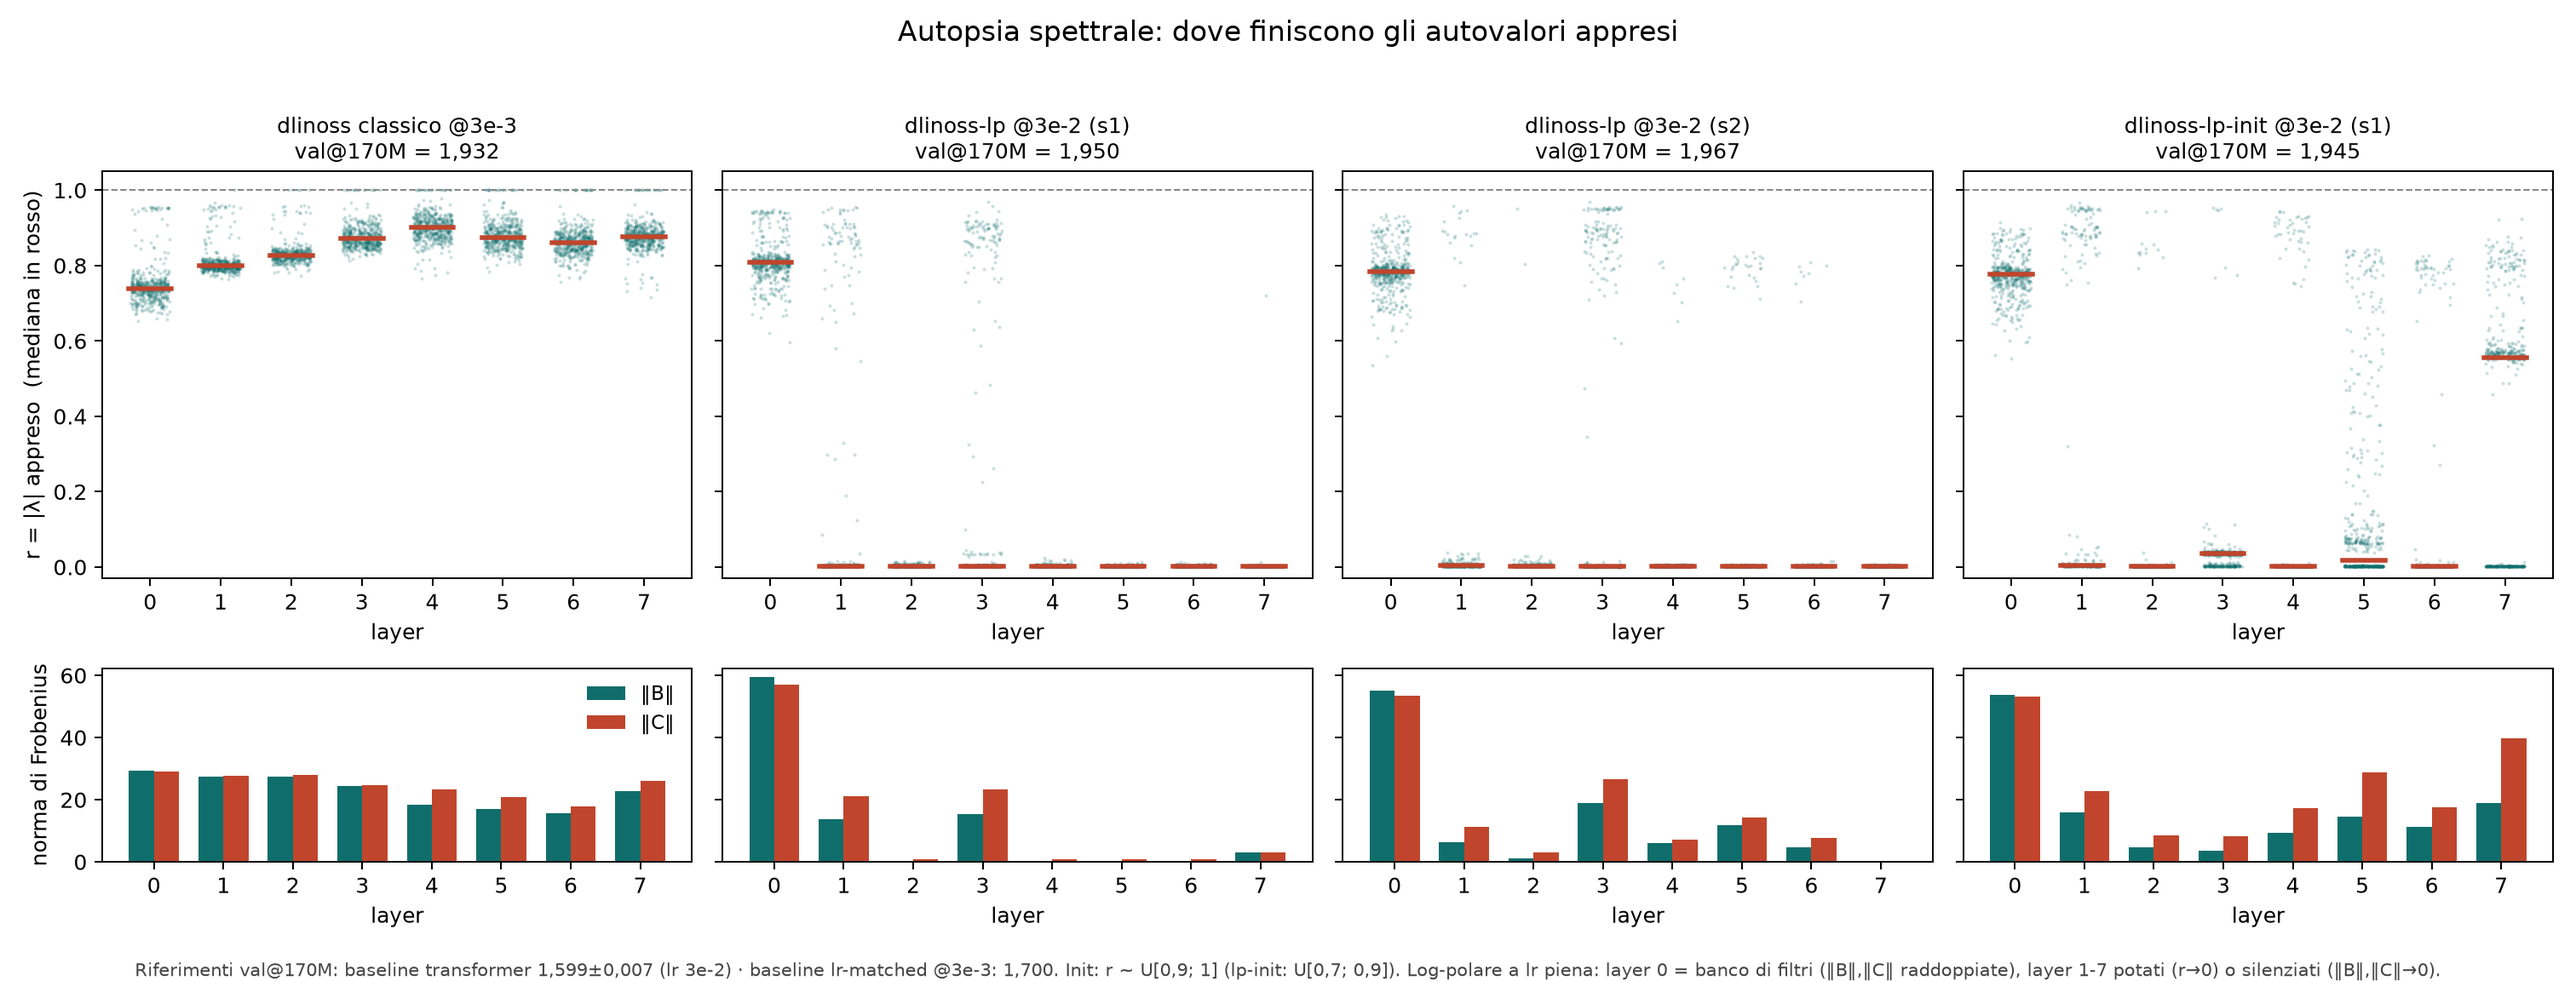
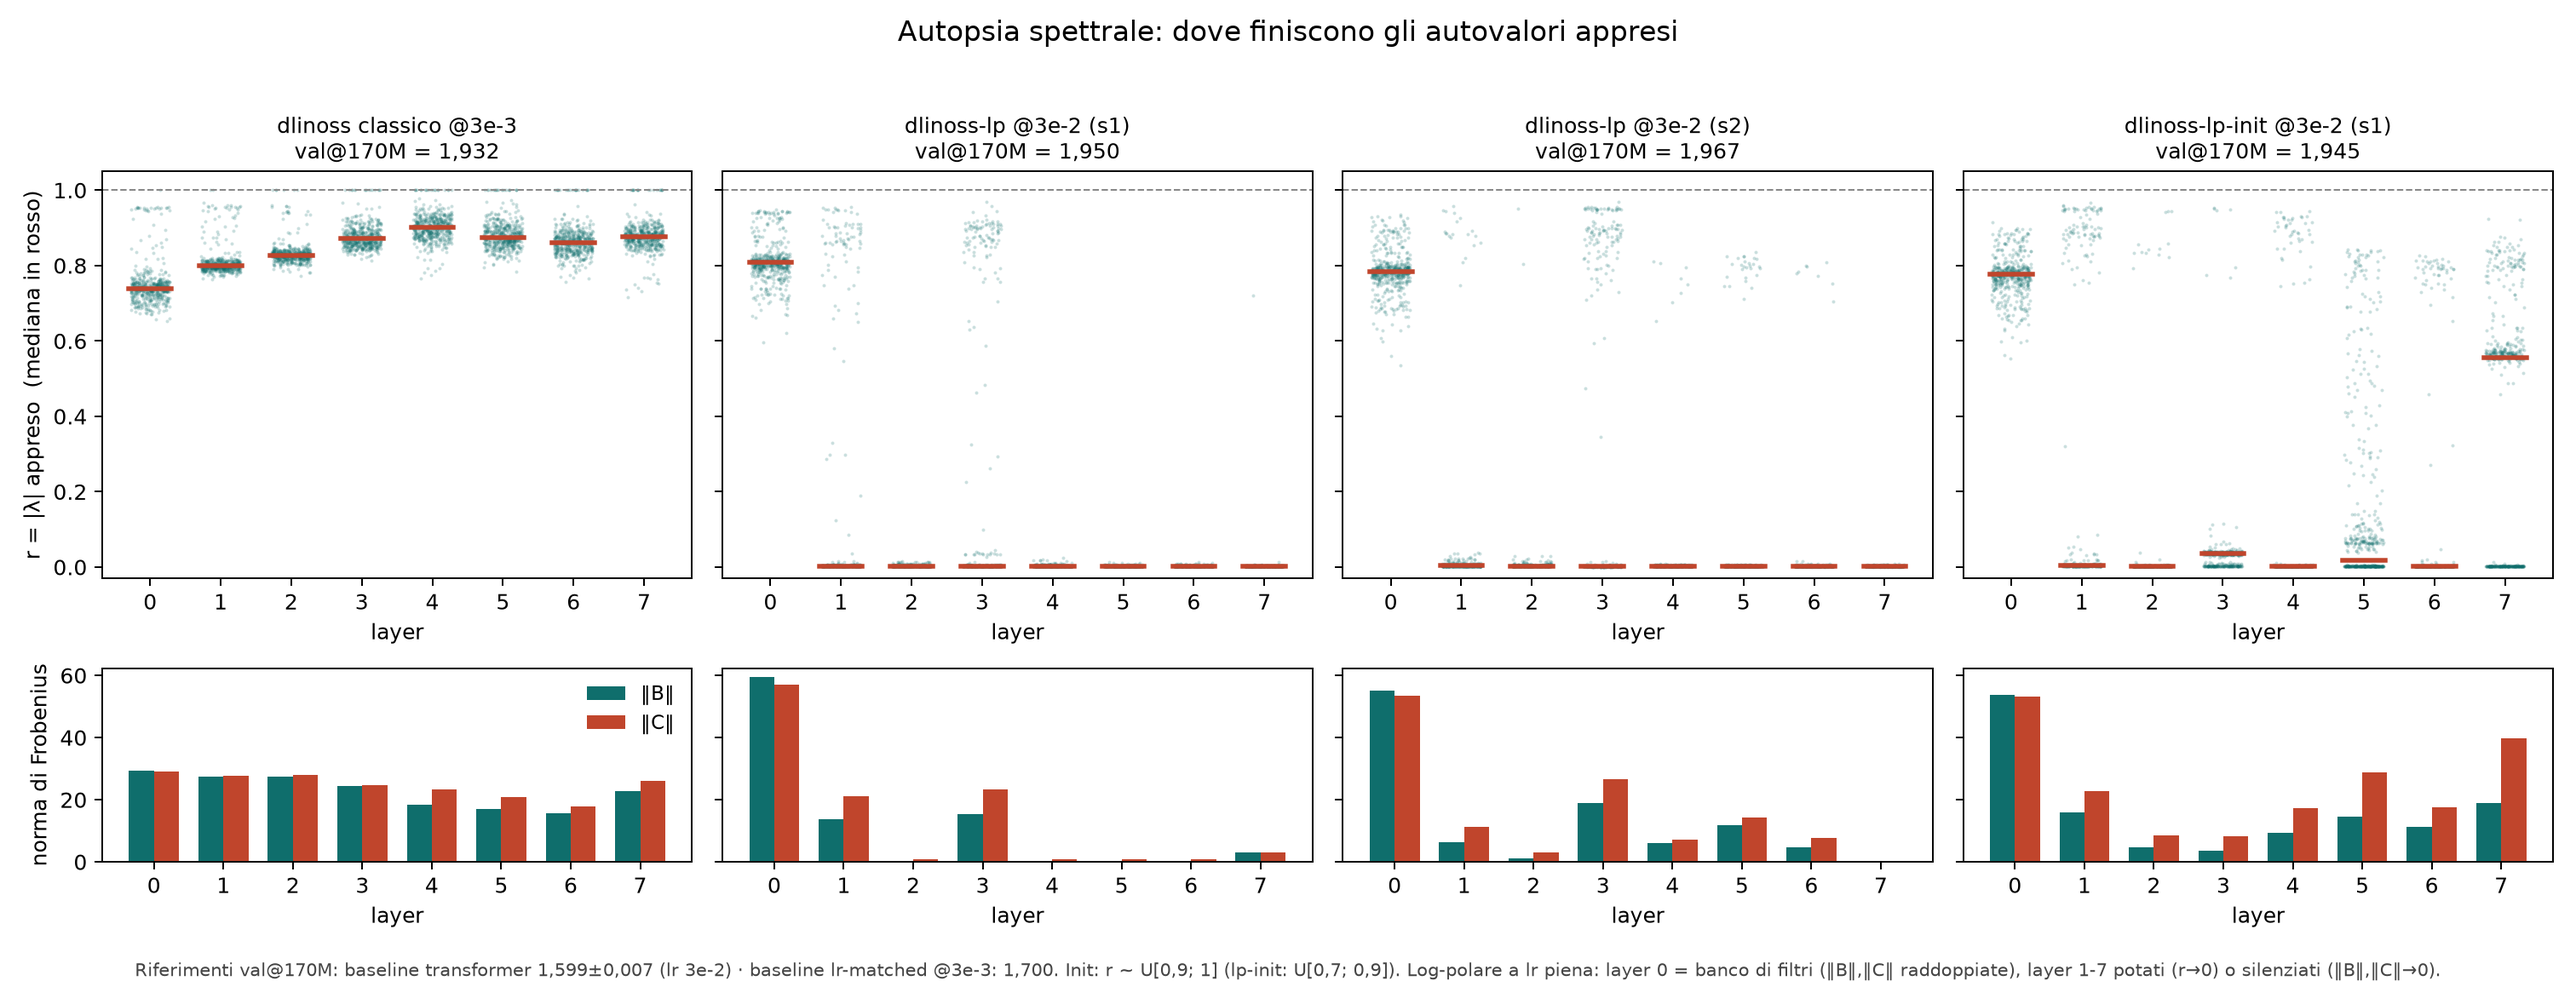
feat: figure bilingui IT/EN — script parametrizzati per lingua, regola nella skill docs-and-artifacts

diff --git a/scripts/fig_autopsia.py b/scripts/fig_autopsia.py
@@ -1,10 +1,10 @@
-"""Figura per il log/dev-log: spettri appresi per layer, classico vs log-polare.
+"""Figura autopsia spettrale (griglia 1b): spettri appresi per layer.
 
-Pannelli: (a) r per oscillatore/layer nei tre modelli; (b) norme di B/C per layer
-(il canale della potatura). Dati dai checkpoint HF (cache locale).
+Uso: `uv run --with matplotlib python scripts/fig_autopsia.py [it|en|all]`
+Output: docs/figures/2026-08-autopsia-spettrale-1b.png (+ -en per l'inglese).
+Dati: checkpoint HF (cache locale dopo il primo download).
 """
 import sys
-import math
 import torch
 import torch.nn.functional as F
 import matplotlib
@@ -13,14 +13,40 @@ import matplotlib.pyplot as plt
 from huggingface_hub import hf_hub_download
 
 REPO = "MarioAlessandroNapoli/neuro-llm-ckpt"
-OUT = sys.argv[1] if len(sys.argv) > 1 else "docs/figures/2026-08-autopsia-spettrale-1b.png"
 
 MODELS = [
-    ("dlinoss-d256-L8-t170M-s1-lr3e-3", "dlinoss classico @3e-3", "classic", 1.9320),
-    ("dlinoss-lp-d256-L8-t170M-s1-lr3e-2", "dlinoss-lp @3e-2 (s1)", "lp", 1.9498),
-    ("dlinoss-lp-d256-L8-t170M-s2-lr3e-2", "dlinoss-lp @3e-2 (s2)", "lp", 1.9672),
-    ("dlinoss-lp-init-d256-L8-t170M-s1-lr3e-2", "dlinoss-lp-init @3e-2 (s1)", "lp", 1.9450),
+    ("dlinoss-d256-L8-t170M-s1-lr3e-3", {"it": "dlinoss classico @3e-3", "en": "vanilla dlinoss @3e-3"}, "classic", 1.9320),
+    ("dlinoss-lp-d256-L8-t170M-s1-lr3e-2", {"it": "dlinoss-lp @3e-2 (s1)", "en": "dlinoss-lp @3e-2 (s1)"}, "lp", 1.9498),
+    ("dlinoss-lp-d256-L8-t170M-s2-lr3e-2", {"it": "dlinoss-lp @3e-2 (s2)", "en": "dlinoss-lp @3e-2 (s2)"}, "lp", 1.9672),
+    ("dlinoss-lp-init-d256-L8-t170M-s1-lr3e-2", {"it": "dlinoss-lp-init @3e-2 (s1)", "en": "dlinoss-lp-init @3e-2 (s1)"}, "lp", 1.9450),
 ]
+
+TEXT = {
+    "it": {
+        "title": "Autopsia spettrale: dove finiscono gli autovalori appresi",
+        "ylab": "r = |λ| appreso  (mediana in rosso)",
+        "ylab2": "norma di Frobenius",
+        "xlab": "layer",
+        "val": "val@170M = {v}",
+        "foot": ("Riferimenti val@170M: baseline transformer 1,599±0,007 (lr 3e-2) · baseline lr-matched @3e-3: 1,700. "
+                 "Init: r ~ U[0,9; 1] (lp-init: U[0,7; 0,9]). Log-polare a lr piena: layer 0 = banco di filtri "
+                 "(‖B‖,‖C‖ raddoppiate), layer 1-7 potati (r→0) o silenziati (‖B‖,‖C‖→0)."),
+        "dec": ",",
+        "out": "docs/figures/2026-08-autopsia-spettrale-1b.png",
+    },
+    "en": {
+        "title": "Spectral autopsy: where the learned eigenvalues end up",
+        "ylab": "learned r = |λ|  (median in red)",
+        "ylab2": "Frobenius norm",
+        "xlab": "layer",
+        "val": "val@170M = {v}",
+        "foot": ("val@170M references: transformer baseline 1.599±0.007 (lr 3e-2) · lr-matched baseline @3e-3: 1.700. "
+                 "Init: r ~ U[0.9, 1] (lp-init: U[0.7, 0.9]). Log-polar at full lr: layer 0 = filter bank "
+                 "(‖B‖,‖C‖ doubled), layers 1-7 pruned (r→0) or silenced (‖B‖,‖C‖→0)."),
+        "dec": ".",
+        "out": "docs/figures/2026-08-autopsia-spettrale-1b-en.png",
+    },
+}
 
 
 def load_layers(run, kind):
@@ -41,46 +67,48 @@ def load_layers(run, kind):
     return out
 
 
-data = {label: (load_layers(run, kind), vl) for run, label, kind, vl in MODELS}
+def render(lang, data):
+    T = TEXT[lang]
+    n = len(data)
+    fig, axes = plt.subplots(2, n, figsize=(4.2 * n, 6.4), height_ratios=[2.1, 1],
+                             sharey="row")
+    fig.suptitle(T["title"], fontsize=13, y=0.98)
+    for j, (run, label, kind, vloss) in enumerate(MODELS):
+        layers = data[run]
+        ax = axes[0, j]
+        torch.manual_seed(0)
+        for li, (r, _, _) in enumerate(layers):
+            x = li + (torch.rand(len(r)) - 0.5) * 0.55
+            ax.scatter(x, r, s=2.5, alpha=0.22, color="#0F6E6C", linewidths=0)
+            ax.plot([li - 0.3, li + 0.3], [r.median()] * 2, color="#C0452C", lw=2.2,
+                    zorder=3)
+        ax.axhline(1.0, color="#888", lw=0.8, ls="--")
+        vtxt = f"{vloss:.3f}".replace(".", T["dec"])
+        ax.set_title(f"{label[lang]}\n{T['val'].format(v=vtxt)}", fontsize=10)
+        ax.set_xlabel(T["xlab"])
+        ax.set_xticks(range(len(layers)))
+        ax.set_ylim(-0.03, 1.05)
+        if j == 0:
+            ax.set_ylabel(T["ylab"])
+        ax2 = axes[1, j]
+        idx = range(len(layers))
+        ax2.bar([i - 0.18 for i in idx], [b for _, b, _ in layers], width=0.36,
+                label="‖B‖", color="#0F6E6C")
+        ax2.bar([i + 0.18 for i in idx], [c for _, _, c in layers], width=0.36,
+                label="‖C‖", color="#C0452C")
+        ax2.set_xlabel(T["xlab"])
+        ax2.set_xticks(list(idx))
+        if j == 0:
+            ax2.set_ylabel(T["ylab2"])
+            ax2.legend(frameon=False, fontsize=9)
+    fig.text(0.5, 0.005, T["foot"], ha="center", fontsize=8.5, color="#444")
+    fig.tight_layout(rect=(0, 0.03, 1, 0.96))
+    fig.savefig(T["out"], dpi=180)
+    print(f"salvata {T['out']}")
 
-n = len(data)
-fig, axes = plt.subplots(2, n, figsize=(4.2 * n, 6.4), height_ratios=[2.1, 1],
-                         sharey="row")
-fig.suptitle("Autopsia spettrale: dove finiscono gli autovalori appresi",
-             fontsize=13, y=0.98)
 
-for j, (label, (layers, vloss)) in enumerate(data.items()):
-    ax = axes[0, j] if n > 1 else axes[0]
-    for li, (r, _, _) in enumerate(layers):
-        x = li + (torch.rand(len(r)) - 0.5) * 0.55
-        ax.scatter(x, r, s=2.5, alpha=0.22, color="#0F6E6C", linewidths=0)
-        ax.plot([li - 0.3, li + 0.3], [r.median()] * 2, color="#C0452C", lw=2.2,
-                zorder=3)
-    ax.axhline(1.0, color="#888", lw=0.8, ls="--")
-    vtxt = f"{vloss:.3f}".replace(".", ",")
-    ax.set_title(f"{label}\nval@170M = {vtxt}", fontsize=10)
-    ax.set_xlabel("layer")
-    ax.set_xticks(range(len(layers)))
-    ax.set_ylim(-0.03, 1.05)
-    if j == 0:
-        ax.set_ylabel("r = |λ| appreso  (mediana in rosso)")
-
-    ax2 = axes[1, j] if n > 1 else axes[1]
-    idx = range(len(layers))
-    ax2.bar([i - 0.18 for i in idx], [b for _, b, _ in layers], width=0.36,
-            label="‖B‖", color="#0F6E6C")
-    ax2.bar([i + 0.18 for i in idx], [c for _, _, c in layers], width=0.36,
-            label="‖C‖", color="#C0452C")
-    ax2.set_xlabel("layer")
-    ax2.set_xticks(list(idx))
-    if j == 0:
-        ax2.set_ylabel("norma di Frobenius")
-        ax2.legend(frameon=False, fontsize=9)
-
-fig.text(0.5, 0.005,
-         "Riferimenti val@170M: baseline transformer 1,599±0,007 (lr 3e-2) · baseline lr-matched @3e-3: 1,700. Init: r ~ U[0,9; 1] (lp-init: U[0,7; 0,9]). "
-         "Log-polare a lr piena: layer 0 = banco di filtri (‖B‖,‖C‖ raddoppiate), layer 1-7 potati (r→0) o silenziati (‖B‖,‖C‖→0).",
-         ha="center", fontsize=8.5, color="#444")
-fig.tight_layout(rect=(0, 0.03, 1, 0.96))
-fig.savefig(OUT, dpi=180)
-print(f"salvata {OUT}")
+langs = sys.argv[1] if len(sys.argv) > 1 else "all"
+langs = ["it", "en"] if langs == "all" else [langs]
+data = {run: load_layers(run, kind) for run, _, kind, _ in MODELS}
+for lang in langs:
+    render(lang, data)

diff --git a/scripts/fig_fase0_ab.py b/scripts/fig_fase0_ab.py
@@ -1,33 +1,51 @@
 """Figura fase 0 (D12): l'A/B di training che ha smascherato il backward rotto.
 
-Curve train_loss @5M token (dlinoss, b16, lr 3e-3, RTX 3060) per: scan eager (2 seed,
-pavimento di rumore), scan hoo con backward Inductor rotto (+0,27, bias), scan hoo
-elementwise corretto (2 seed), bf16 (muore a step ~300: niente GradScaler = niente
-skip degli step esplosivi). Barre: throughput a livello modello.
-Dati: W&B gruppo scan-ab. Uso: WANDB_API_KEY nell'ambiente, poi
-`uv run --with wandb,matplotlib python scripts/fig_fase0_ab.py`.
+Uso: WANDB_API_KEY nell'ambiente, poi
+`uv run --with wandb,matplotlib python scripts/fig_fase0_ab.py [it|en|all]`
+Output: docs/figures/2026-08-fase0-ab-scan.png (+ -en). Dati: W&B gruppo scan-ab.
 """
+import sys
 import math
 import wandb
 import matplotlib
 matplotlib.use("Agg")
 import matplotlib.pyplot as plt
 
-OUT = "docs/figures/2026-08-fase0-ab-scan.png"
 RUNS = [
-    ("dlinoss-scanAB-eager", "eager s1 (riferimento)", "#555555", "-"),
-    ("dlinoss-scanAB-eager-s2", "eager s2 (rumore seed)", "#999999", "-"),
-    ("dlinoss-scanAB-hoo", "hoo backward ROTTO", "#C0452C", "--"),
-    ("dlinoss-scanAB-hoo2-s1", "hoo elementwise s1", "#0F6E6C", "-"),
-    ("dlinoss-scanAB-hoo2-s2", "hoo elementwise s2", "#4FA39F", "-"),
-    ("dlinoss-scanAB-hoo-bf16", "bf16 (muore ~step 300)", "#D98E32", ":"),
+    ("dlinoss-scanAB-eager", {"it": "eager s1 (riferimento)", "en": "eager s1 (reference)"}, "#555555", "-"),
+    ("dlinoss-scanAB-eager-s2", {"it": "eager s2 (rumore seed)", "en": "eager s2 (seed noise)"}, "#999999", "-"),
+    ("dlinoss-scanAB-hoo", {"it": "hoo backward ROTTO", "en": "hoo BROKEN backward"}, "#C0452C", "--"),
+    ("dlinoss-scanAB-hoo2-s1", {"it": "hoo elementwise s1", "en": "hoo elementwise s1"}, "#0F6E6C", "-"),
+    ("dlinoss-scanAB-hoo2-s2", {"it": "hoo elementwise s2", "en": "hoo elementwise s2"}, "#4FA39F", "-"),
+    ("dlinoss-scanAB-hoo-bf16", {"it": "bf16 (muore ~step 300)", "en": "bf16 (dies ~step 300)"}, "#D98E32", ":"),
 ]
 
-api = wandb.Api()
-fig, (ax, ax2) = plt.subplots(1, 2, figsize=(11.5, 4.4), width_ratios=[2.1, 1])
+TEXT = {
+    "it": {
+        "suptitle": "Fase 0 — validazione dell'apparato: scan fuso e precisione",
+        "t1": "A/B di training: stessa run, scan diversi",
+        "t2": "Throughput a livello modello",
+        "xlab": "global step (5M token = 610 step)",
+        "ylab": "train loss (log)",
+        "xlab2": "tok/s (migliaia, RTX 3060)",
+        "note": "gap hoo-rotto = 7× il rumore seed\n(0,27 vs 0,037): gradienti errati\ninvisibili ai test forward-only",
+        "out": "docs/figures/2026-08-fase0-ab-scan.png",
+    },
+    "en": {
+        "suptitle": "Phase 0 — apparatus validation: fused scan and precision",
+        "t1": "Training A/B: same run, different scans",
+        "t2": "Model-level throughput",
+        "xlab": "global step (5M tokens = 610 steps)",
+        "ylab": "train loss (log)",
+        "xlab2": "tok/s (thousands, RTX 3060)",
+        "note": "broken-hoo gap = 7× seed noise\n(0.27 vs 0.037): wrong gradients\ninvisible to forward-only tests",
+        "out": "docs/figures/2026-08-fase0-ab-scan-en.png",
+    },
+}
 
-toks = {}
-for name, label, color, ls in RUNS:
+api = wandb.Api()
+curves, toks = {}, {}
+for name, _, _, _ in RUNS:
     r = api.run(f"marioalessandronapoli/neuro-llm/{name}")
     h = r.history(keys=["trainer/global_step", "train_loss"], samples=400, pandas=False)
     xs, ys = [], []
@@ -37,30 +55,35 @@ for name, label, color, ls in RUNS:
             break
         xs.append(row["trainer/global_step"])
         ys.append(v)
-    ax.plot(xs, ys, color=color, ls=ls, lw=1.6, label=label)
-    if "bf16" in name and xs:
-        ax.scatter([xs[-1]], [ys[-1]], marker="x", s=70, color=color, zorder=5)
+    curves[name] = (xs, ys)
     ts = r.summary.get("tokens_per_sec")
-    if ts:
-        toks[label] = float(ts)
+    toks[name] = float(ts) if ts else 0.0
 
-ax.set_yscale("log")
-ax.set_xlabel("global step (5M token = 610 step)")
-ax.set_ylabel("train loss (log)")
-ax.set_title("A/B di training: stessa run, scan diversi", fontsize=11)
-ax.legend(frameon=False, fontsize=8.5)
-ax.text(0.98, 0.72, "gap hoo-rotto = 7× il rumore seed\n(0,27 vs 0,037): gradienti errati\ninvisibili ai test forward-only",
-        transform=ax.transAxes, ha="right", fontsize=8, color="#C0452C")
-
-labels = list(toks)
-ax2.barh(range(len(labels)), [toks[l] / 1000 for l in labels], color="#0F6E6C")
-ax2.set_yticks(range(len(labels)))
-ax2.set_yticklabels(labels, fontsize=8)
-ax2.set_xlabel("tok/s (migliaia, RTX 3060)")
-ax2.set_title("Throughput a livello modello", fontsize=11)
-ax2.invert_yaxis()
-
-fig.suptitle("Fase 0 — validazione dell'apparato: scan fuso e precisione", fontsize=13)
-fig.tight_layout(rect=(0, 0, 1, 0.94))
-fig.savefig(OUT, dpi=180)
-print(f"salvata {OUT}")
+langs = sys.argv[1] if len(sys.argv) > 1 else "all"
+for lang in (["it", "en"] if langs == "all" else [langs]):
+    T = TEXT[lang]
+    fig, (ax, ax2) = plt.subplots(1, 2, figsize=(11.5, 4.4), width_ratios=[2.1, 1])
+    for name, label, color, ls in RUNS:
+        xs, ys = curves[name]
+        ax.plot(xs, ys, color=color, ls=ls, lw=1.6, label=label[lang])
+        if "bf16" in name and xs:
+            ax.scatter([xs[-1]], [ys[-1]], marker="x", s=70, color=color, zorder=5)
+    ax.set_yscale("log")
+    ax.set_xlabel(T["xlab"])
+    ax.set_ylabel(T["ylab"])
+    ax.set_title(T["t1"], fontsize=11)
+    ax.legend(frameon=False, fontsize=8.5)
+    ax.text(0.98, 0.72, T["note"], transform=ax.transAxes, ha="right", fontsize=8,
+            color="#C0452C")
+    labels = [label[lang] for _, label, _, _ in RUNS]
+    ax2.barh(range(len(RUNS)), [toks[name] / 1000 for name, _, _, _ in RUNS],
+             color="#0F6E6C")
+    ax2.set_yticks(range(len(RUNS)))
+    ax2.set_yticklabels(labels, fontsize=8)
+    ax2.set_xlabel(T["xlab2"])
+    ax2.set_title(T["t2"], fontsize=11)
+    ax2.invert_yaxis()
+    fig.suptitle(T["suptitle"], fontsize=13)
+    fig.tight_layout(rect=(0, 0, 1, 0.94))
+    fig.savefig(T["out"], dpi=180)
+    print(f"salvata {T['out']}")

diff --git a/.claude/skills/docs-and-artifacts/SKILL.md b/.claude/skills/docs-and-artifacts/SKILL.md
@@ -13,7 +13,7 @@ decidere *quando* scatta (schedule sotto), questa skill dice *cosa e come* produ
 
 | Artefatto | Posizione | Regola |
 |---|---|---|
-| Figure | `docs/figures/AAAA-MM-<slug>.png` | Datate; stile paper (val nel titolo, niente box sui dati); MAI orfane: ogni PNG è citato dal RESEARCH_LOG |
+| Figure | `docs/figures/AAAA-MM-<slug>.png` (+ `-en`) | Datate; stile paper (val nel titolo, niente box sui dati); **bilingui**: lo script genera IT e EN (`[it|en|all]`, decimali "," vs "."); MAI orfane: ogni PNG è citato dal RESEARCH_LOG |
 | Script di analisi/figure | `scripts/` | Ogni figura è rigenerabile: script + checkpoint HF + run W&B bastano; header con uso e dipendenze (`uv run --with ...`) |
 | Timeline | `docs/TIMELINE.md` | Una riga datata (giorno + ora se nota) per milestone; si aggiorna nello stesso commit del milestone, non a posteriori |
 | Riproducibilità | blocco nel RESEARCH_LOG accanto al finding | Commit hash, nomi run W&B (gruppo), checkpoint HF, ricetta completa (token, batch, lr, precisione, `NEURO_SCAN`, torch, GPU, tok/s, costo) |
